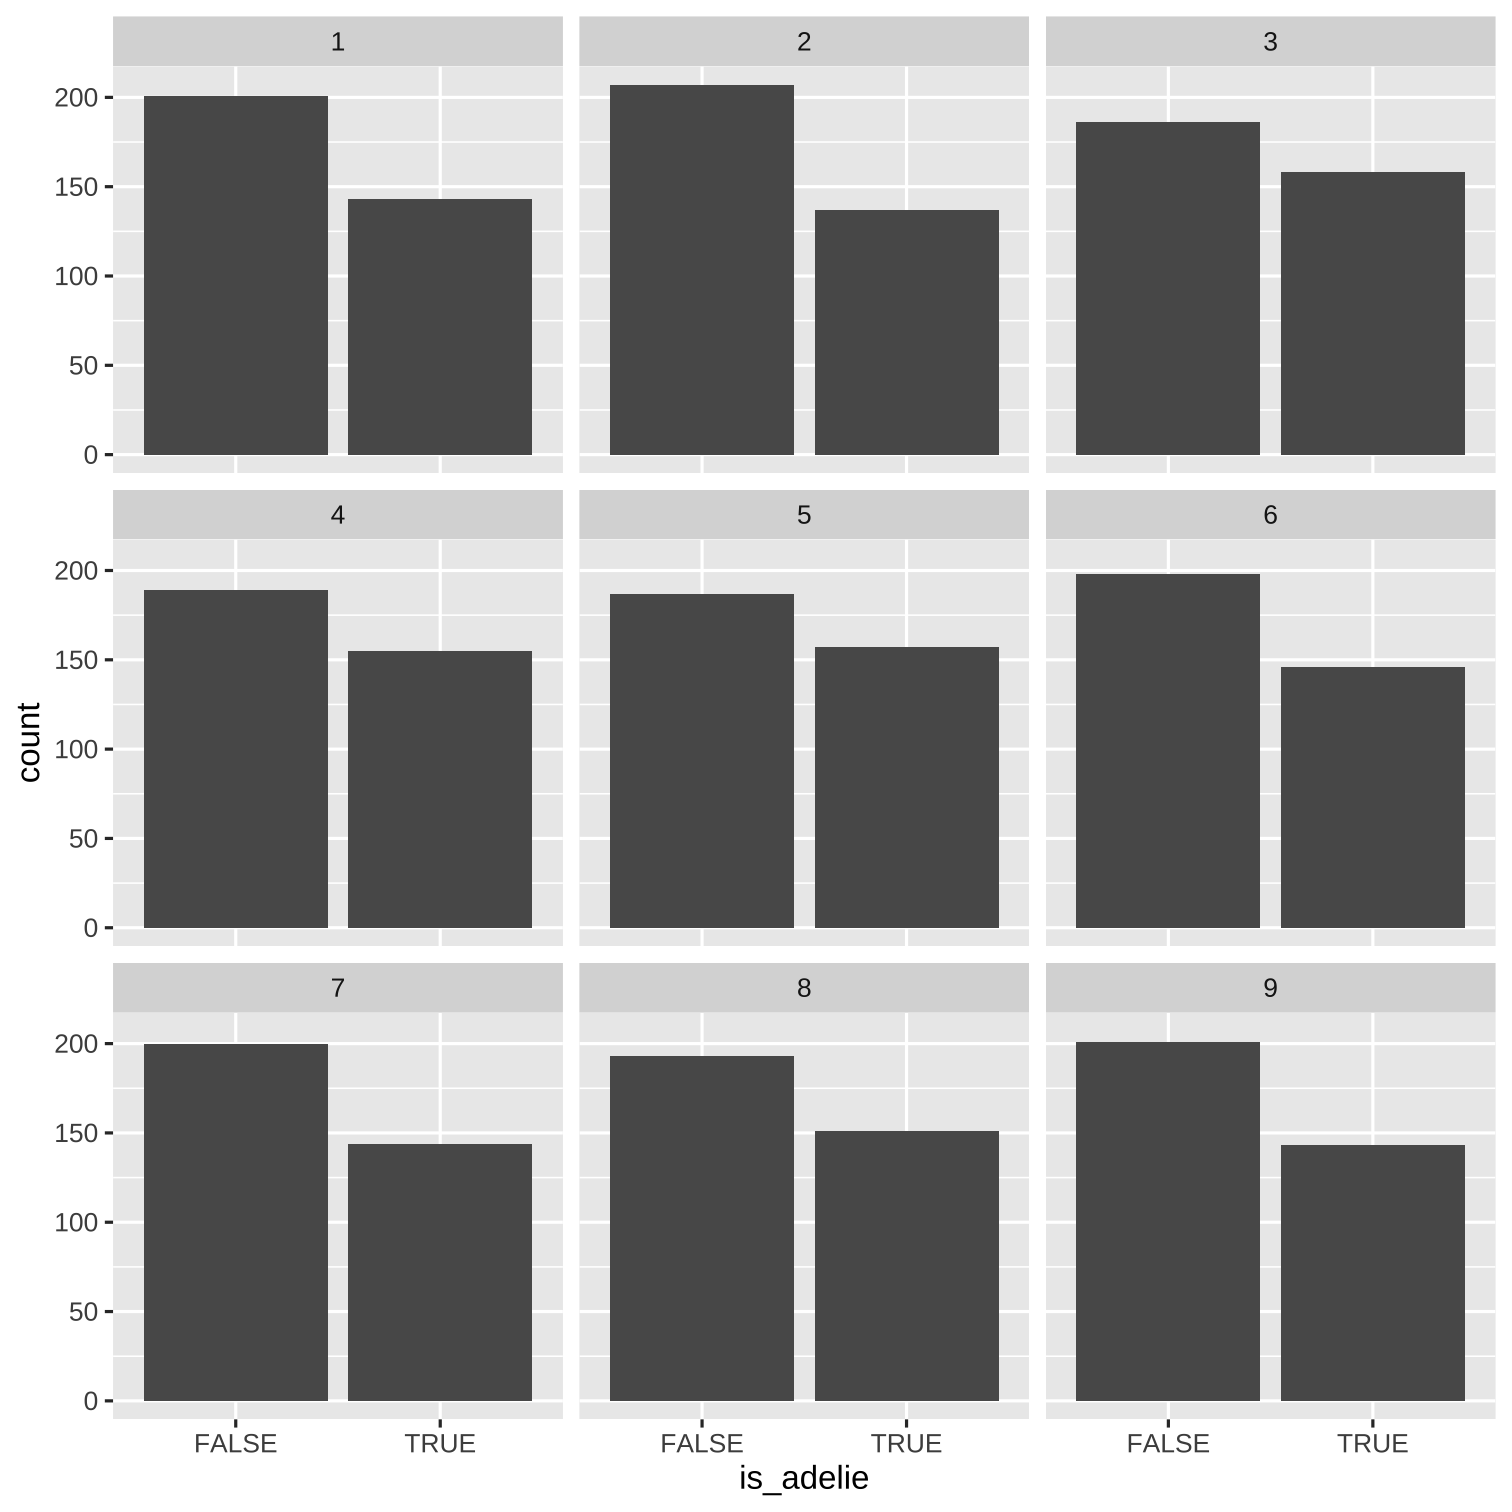
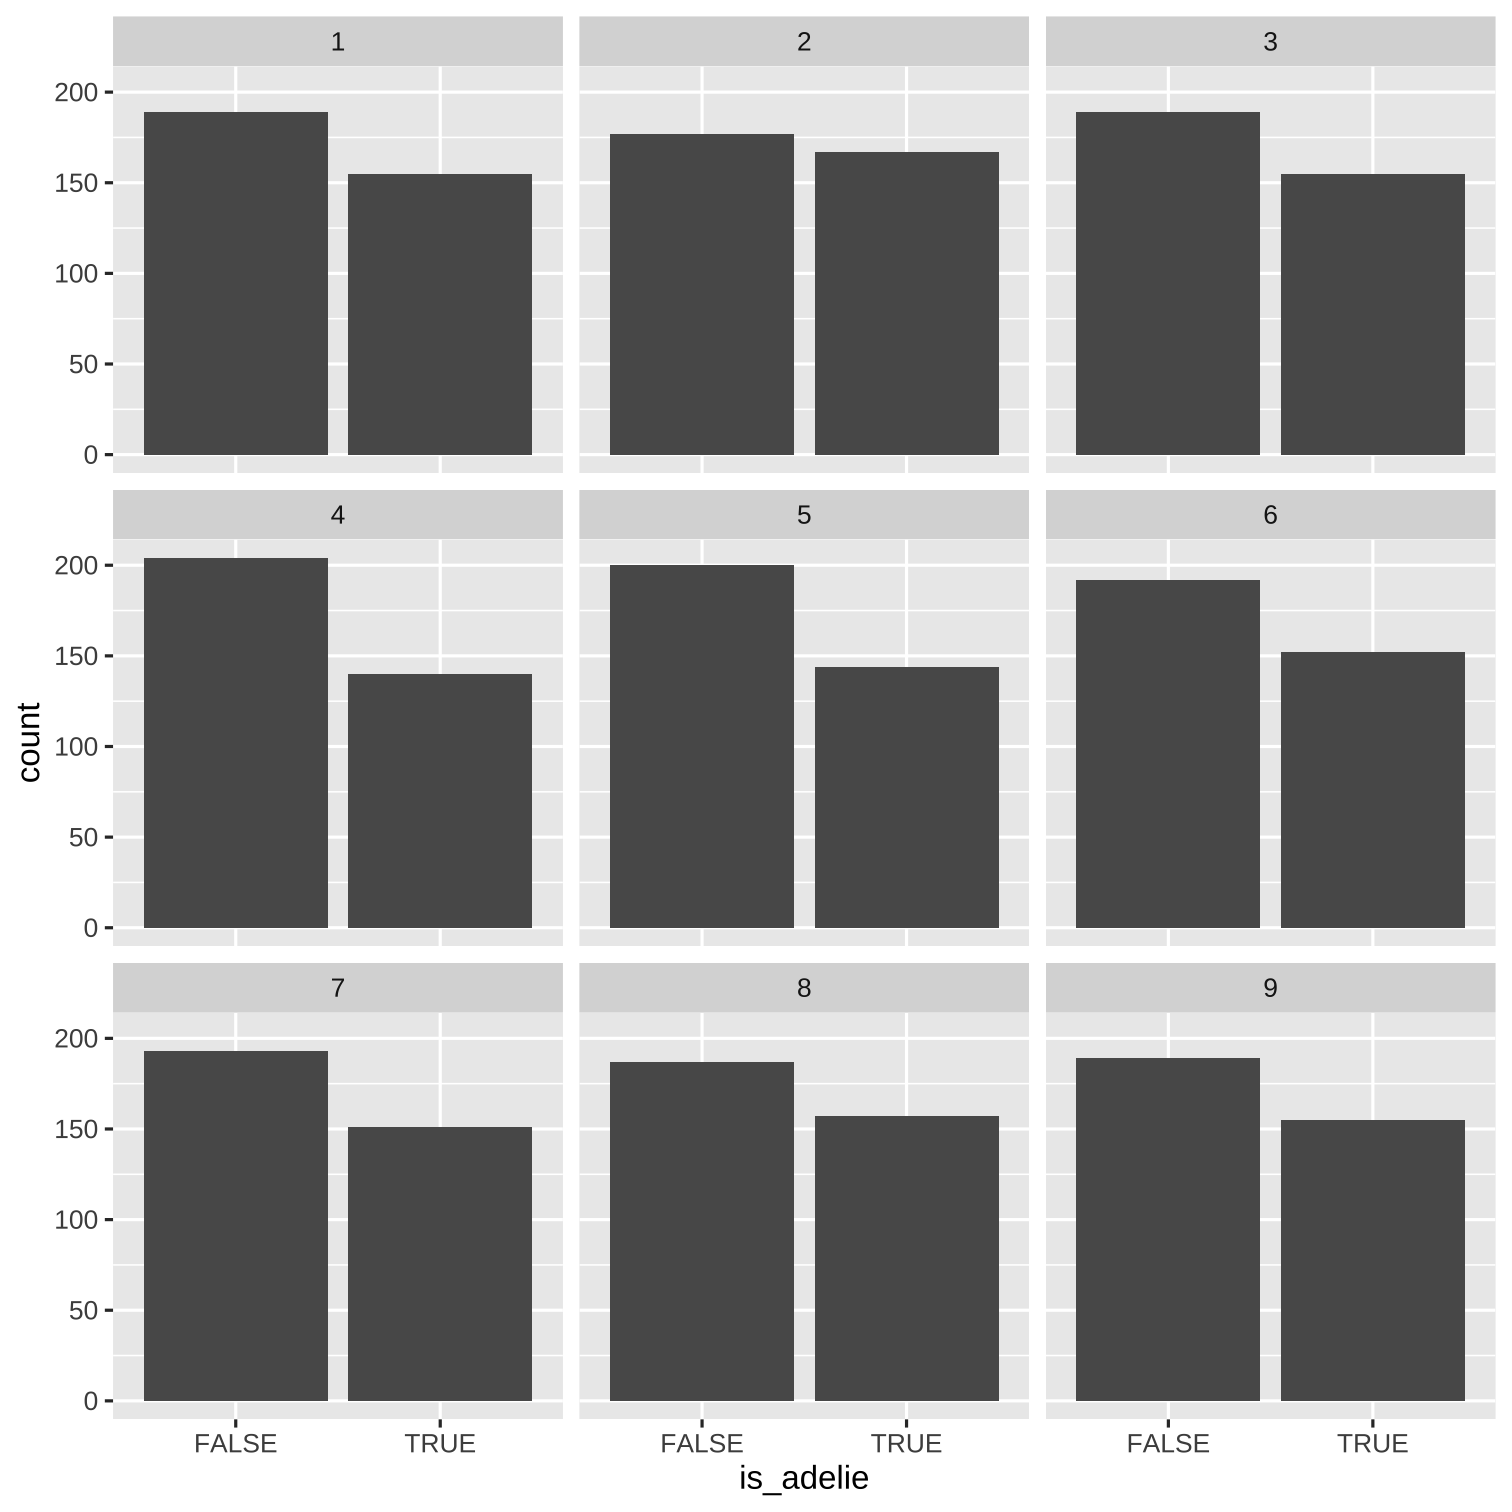
initial commit

diff --git a/labs/06/slides-2.html b/labs/06/slides-2.html
@@ -176,13 +176,13 @@ penguins %&gt;%
 ##  1         1 FALSE    
 ##  2         1 FALSE    
 ##  3         1 FALSE    
-##  4         1 TRUE     
+##  4         1 FALSE    
 ##  5         1 FALSE    
-##  6         1 FALSE    
-##  7         1 TRUE     
-##  8         1 TRUE     
-##  9         1 FALSE    
-## 10         1 TRUE     
+##  6         1 TRUE     
+##  7         1 FALSE    
+##  8         1 FALSE    
+##  9         1 TRUE     
+## 10         1 FALSE    
 ## # … with 334 more rows
 ```
 
@@ -206,15 +206,15 @@ penguins %&gt;%
 ## # Groups:   replicate [1]
 ##    replicate is_adelie
 ##        &lt;int&gt; &lt;fct&gt;    
-##  1         1 FALSE    
-##  2         1 TRUE     
-##  3         1 TRUE     
+##  1         1 TRUE     
+##  2         1 FALSE    
+##  3         1 FALSE    
 ##  4         1 TRUE     
-##  5         1 TRUE     
+##  5         1 FALSE    
 ##  6         1 TRUE     
 ##  7         1 TRUE     
 ##  8         1 FALSE    
-##  9         1 FALSE    
+##  9         1 TRUE     
 ## 10         1 FALSE    
 ## # … with 334 more rows
 ```
@@ -238,15 +238,15 @@ penguins %&gt;%
 ## # Groups:   replicate [1]
 ##    replicate is_adelie
 ##        &lt;int&gt; &lt;fct&gt;    
-##  1         1 FALSE    
-##  2         1 TRUE     
-##  3         1 TRUE     
+##  1         1 TRUE     
+##  2         1 FALSE    
+##  3         1 FALSE    
 ##  4         1 TRUE     
-##  5         1 TRUE     
-##  6         1 FALSE    
+##  5         1 FALSE    
+##  6         1 TRUE     
 ##  7         1 FALSE    
 ##  8         1 FALSE    
-##  9         1 FALSE    
+##  9         1 TRUE     
 ## 10         1 FALSE    
 ## # … with 334 more rows
 ```
@@ -299,15 +299,15 @@ penguins %&gt;%
 ## # A tibble: 9 × 2
 ##   replicate  stat
 ##       &lt;int&gt; &lt;dbl&gt;
-## 1         1 0.468
-## 2         2 0.453
-## 3         3 0.448
-## 4         4 0.448
-## 5         5 0.442
-## 6         6 0.483
-## 7         7 0.453
-## 8         8 0.442
-## 9         9 0.480
+## 1         1 0.427
+## 2         2 0.433
+## 3         3 0.422
+## 4         4 0.392
+## 5         5 0.445
+## 6         6 0.451
+## 7         7 0.468
+## 8         8 0.459
+## 9         9 0.462
 ```
 
 --
@@ -363,7 +363,7 @@ penguins %&gt;%
 ## # A tibble: 1 × 2
 ##   lower_ci upper_ci
 ##      &lt;dbl&gt;    &lt;dbl&gt;
-## 1    0.392    0.494
+## 1    0.387    0.491
 ```
 
 
